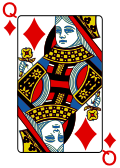
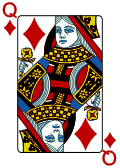
show the unplayable cards as steel cards and adjust the red color on the cards a bit to be more readable

diff --git a/modules/js/Game.js b/modules/js/Game.js
@@ -99,6 +99,11 @@ class PlayerTurn {
             return;
         }
 
+        const playableIds = this.args?.playableCardIds;
+        if (playableIds && !playableIds.map(Number).includes(Number(cardId))) {
+            return;
+        }
+
         // Face-down selection is exclusive — matching extras come after reveal.
         if (this.selectedBlindSlot !== null) {
             this.selectedBlindSlot = null;
@@ -867,15 +872,33 @@ export class Game {
                     el.classList.add('scoop-steel');
                 }
             });
-        } else if (this.playerTurn?.isActive && selected && selected.size > 0) {
-            const first = this.findCard([...selected][0]);
-            const rank = first ? String(first.type) : '';
-            if (rank) {
+        } else if (this.playerTurn?.isActive) {
+            const playableIds = this.playerTurn.args?.playableCardIds;
+            if (playableIds) {
+                const playable = new Set(playableIds.map(Number));
                 myFaces.forEach(el => {
-                    if (el.dataset.rank !== rank && !el.classList.contains('scoop-selected')) {
-                        el.classList.add('scoop-dimmed');
+                    if (el.classList.contains('scoop-selected')) {
+                        return;
+                    }
+                    if (!playable.has(Number(el.dataset.cardId))) {
+                        el.classList.add('scoop-steel');
                     }
                 });
+            }
+
+            if (selected && selected.size > 0) {
+                const first = this.findCard([...selected][0]);
+                const rank = first ? String(first.type) : '';
+                if (rank) {
+                    myFaces.forEach(el => {
+                        if (el.classList.contains('scoop-selected') || el.classList.contains('scoop-steel')) {
+                            return;
+                        }
+                        if (el.dataset.rank !== rank) {
+                            el.classList.add('scoop-dimmed');
+                        }
+                    });
+                }
             }
         }
 

diff --git a/scoop.css b/scoop.css
@@ -379,10 +379,9 @@
     opacity: 0.65;
 }
 
-/* After a face-down reveal: cards that cannot be added. Includes 10s. */
+/* Locked: too high for the pile, or (after a reveal) not matching. Includes 10s in the latter case. */
 .scoop-card-face.scoop-steel {
-    cursor: default;
-    opacity: 0.8;
+    cursor: not-allowed;
     background-color: #d1d8eb;
     background-blend-mode: multiply;
     border: 1px solid #7a8498;
